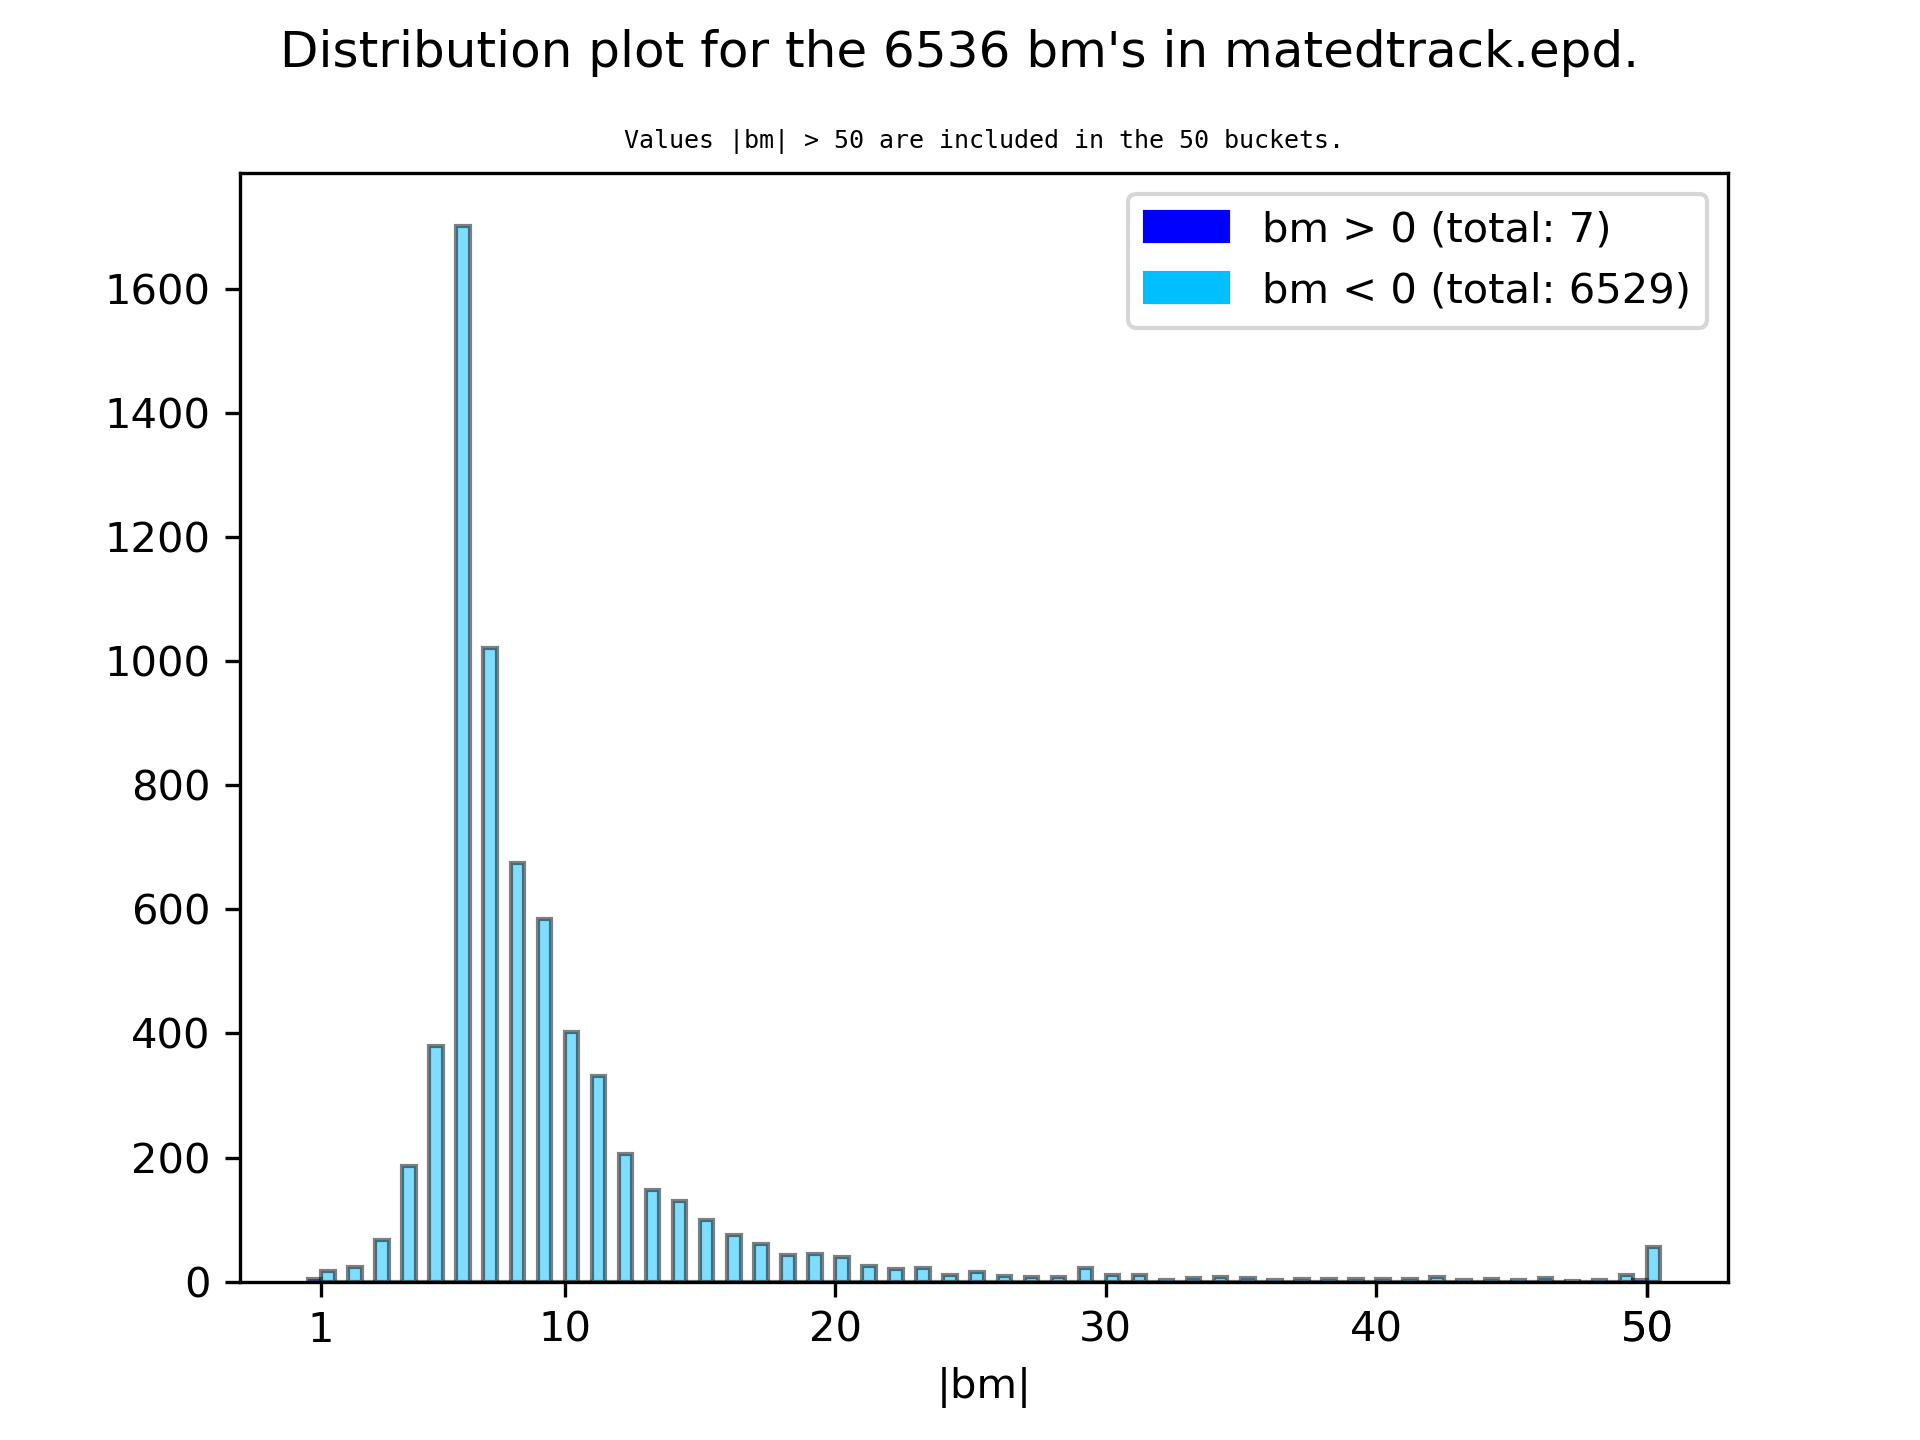
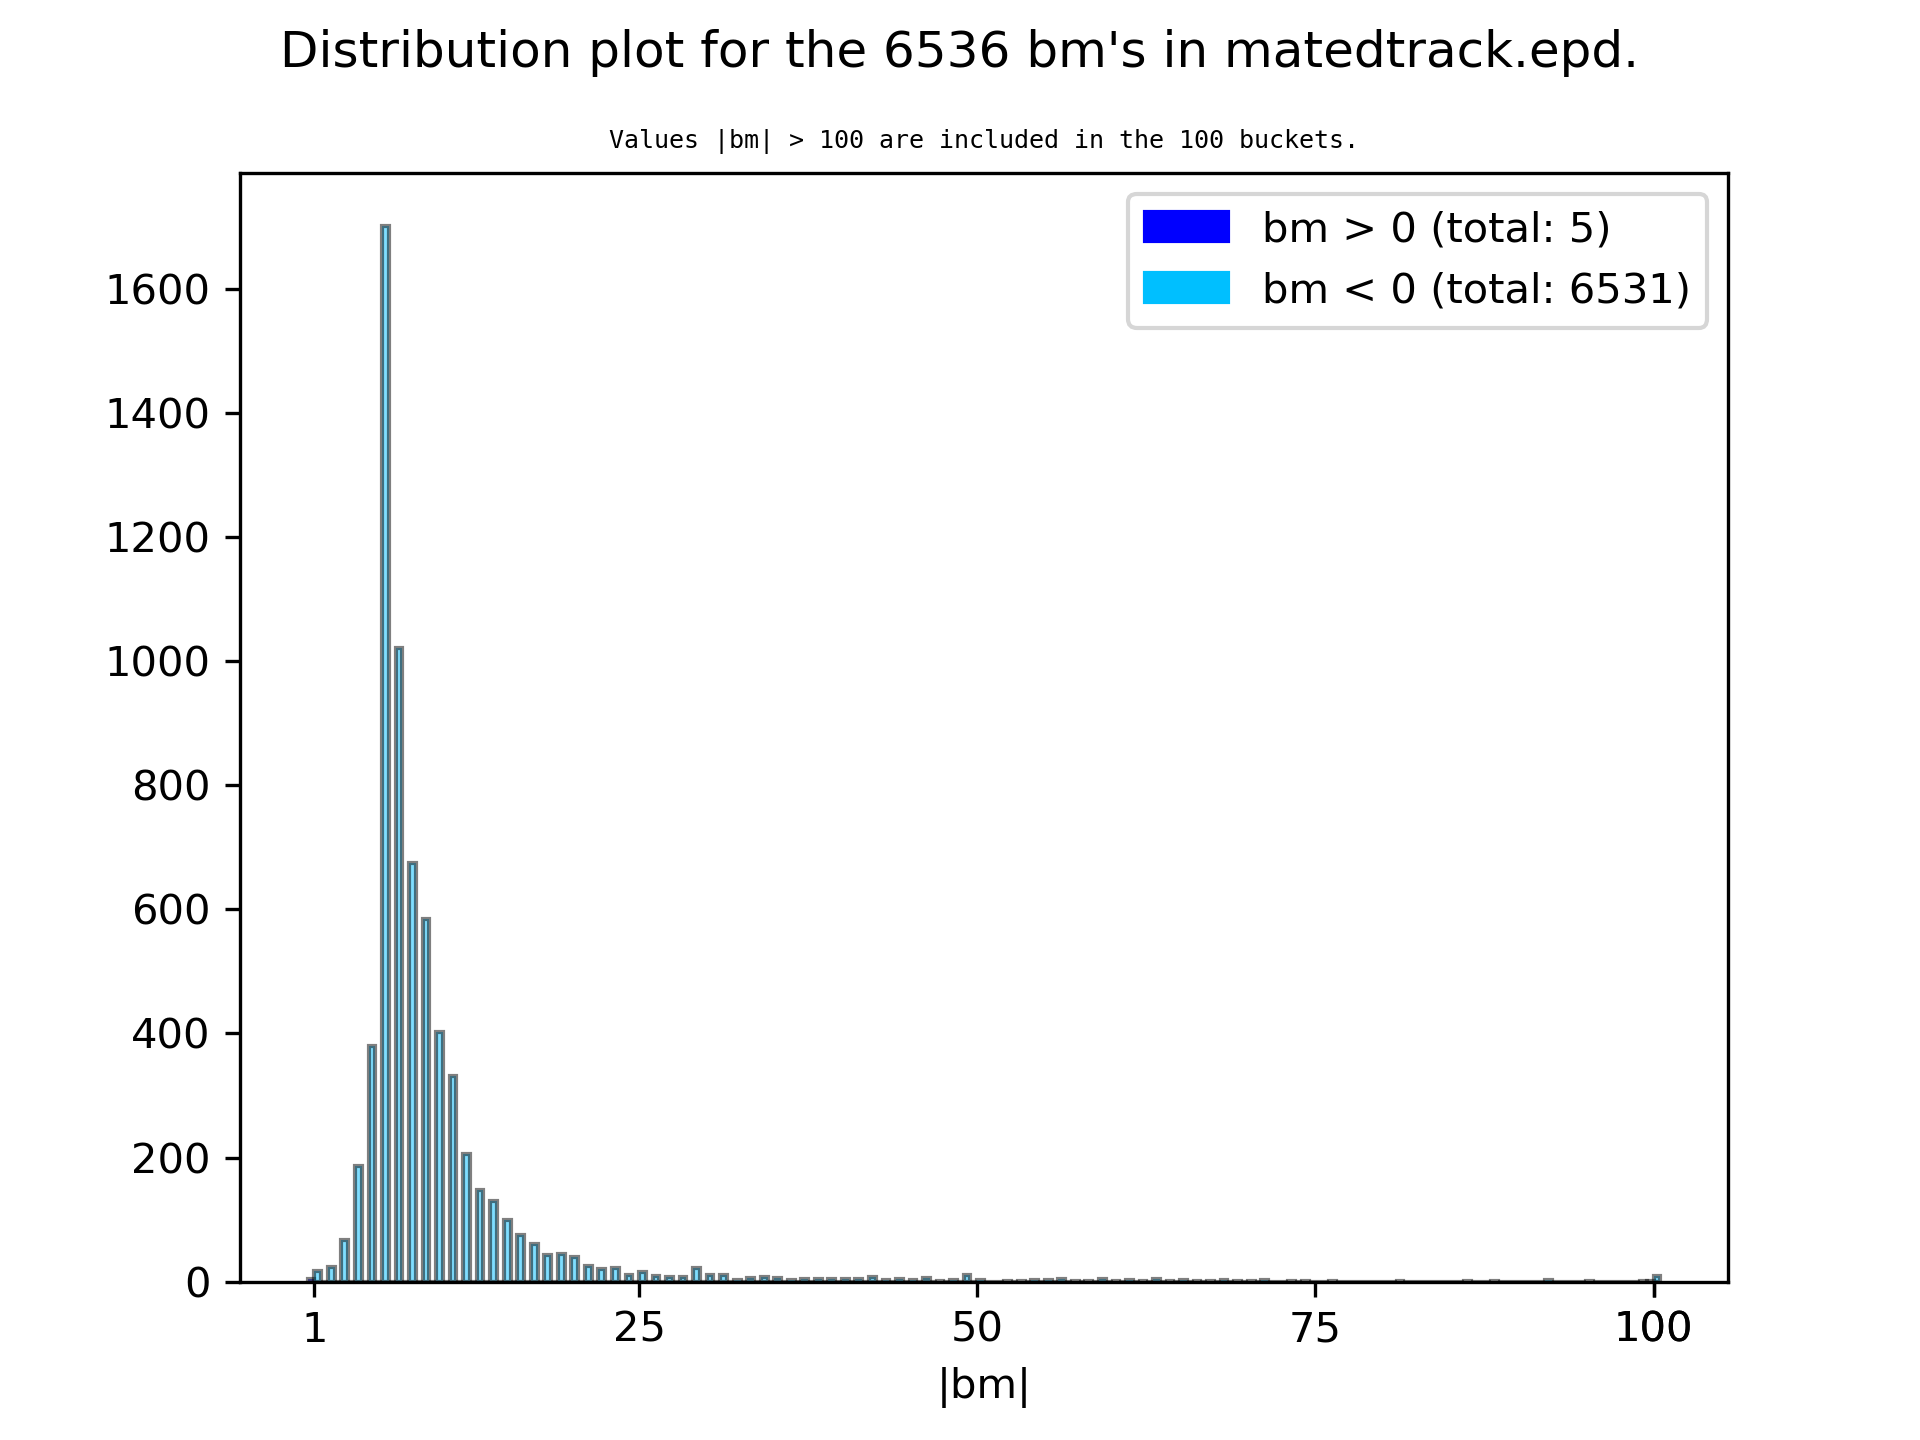
add partial PVs

diff --git a/advancepvs.py b/advancepvs.py
@@ -77,7 +77,10 @@ if __name__ == "__main__":
                     bm = -bm + (1 if bm > 0 else 0)
                 fen = board.epd()
                 pv = pv[plies:]
-                f.write(f"{fen} bm #{bm}; PV: {' '.join(pv)};\n")
+                txt = f"{fen} bm #{bm};"
+                if pv:
+                    txt += f" PV: {' '.join(pv)};"
+                f.write(f"{txt}\n")
                 count += 1
             else:
                 f.write(line)

diff --git a/Readme.md b/Readme.md
@@ -53,7 +53,7 @@ By way of example, the following EPD files are provided:
 * `matetrack.epd`: The successor to `ChestUCI_23102018.epd`, with all illegal positions removed and all known errors corrected. It contains 6554 mate problems, ranging from mate in 1 (#1) to #126 for positions with between 4 and 32 pieces. In 26 positions the side to move is going to get mated. 
 See [plot](images/matetrack.png?raw=true).
 * `matetrackpv.epd`: The same as `matetrack.epd` but with PVs leading to the checkmate where such a PV is known.
-* `matedtrackpv.epd`: Derived from `matetrackpv.epd` (using the script `advancepvs.py`) by advancing one ply in all positions with `bm>1` that have a PV. It contains 6536 unique positions, and in 6529 of these the side to move is going to get mated.
+* `matedtrackpv.epd`: Derived from `matetrackpv.epd` (using the script `advancepvs.py`) by advancing one ply in all positions with `bm>1` that have a PV. It contains 6536 unique positions, and in 6531 of these the side to move is going to get mated.
 * `matedtrack.epd`: The same as `matedtrackpv.epd`, but with the PV information removed. 
 See [plot](images/matedtrack.png?raw=true).
 * `mate-in-2.epd`: A collection of 6330 `bm #2` puzzles derived from `matetrackpv.epd`. The positions have between 3 and 32 pieces.
